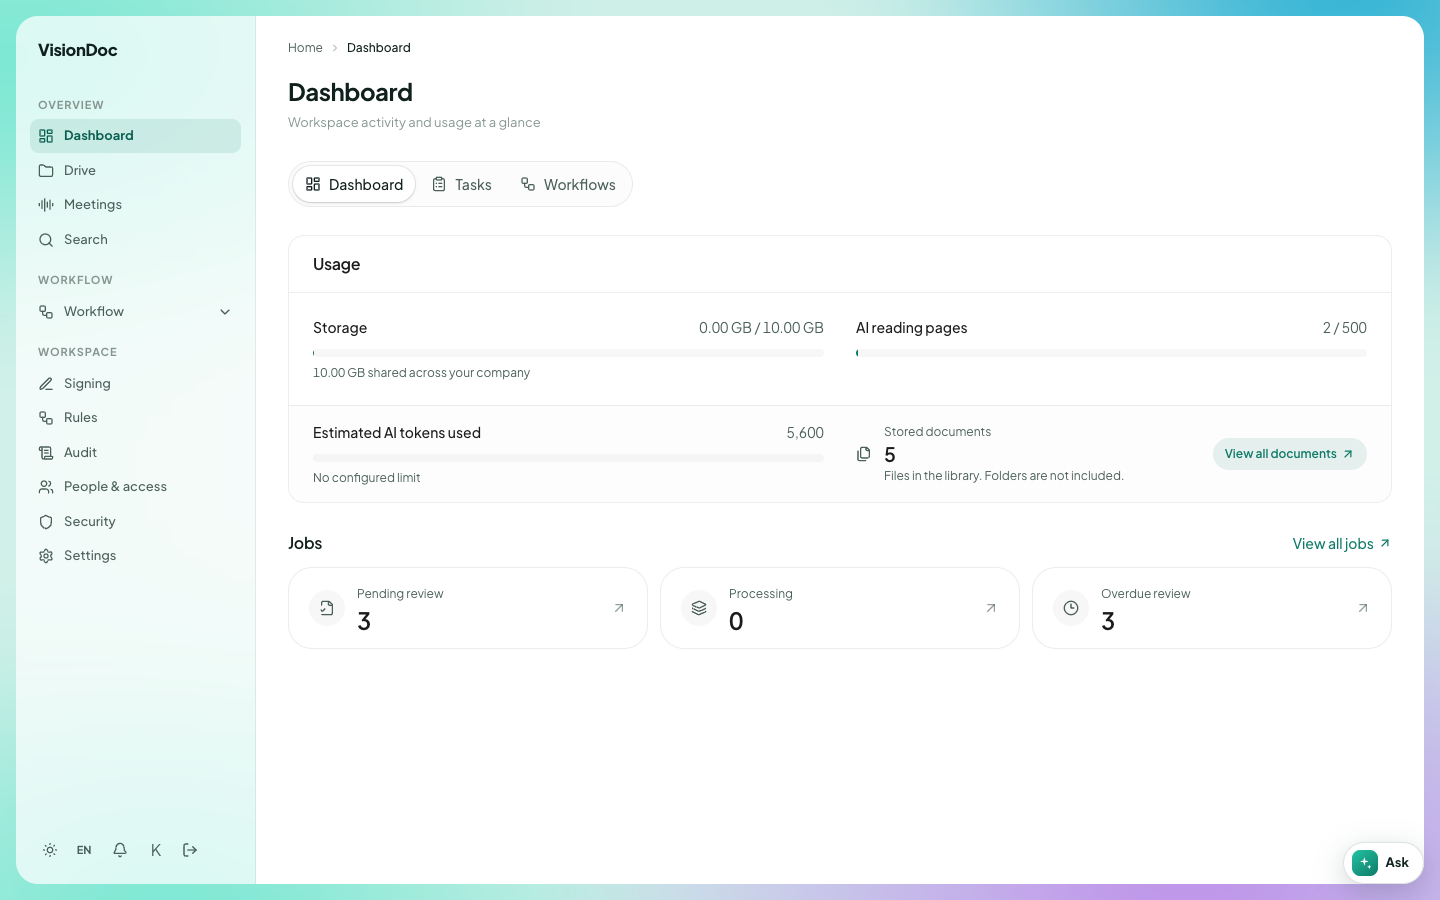
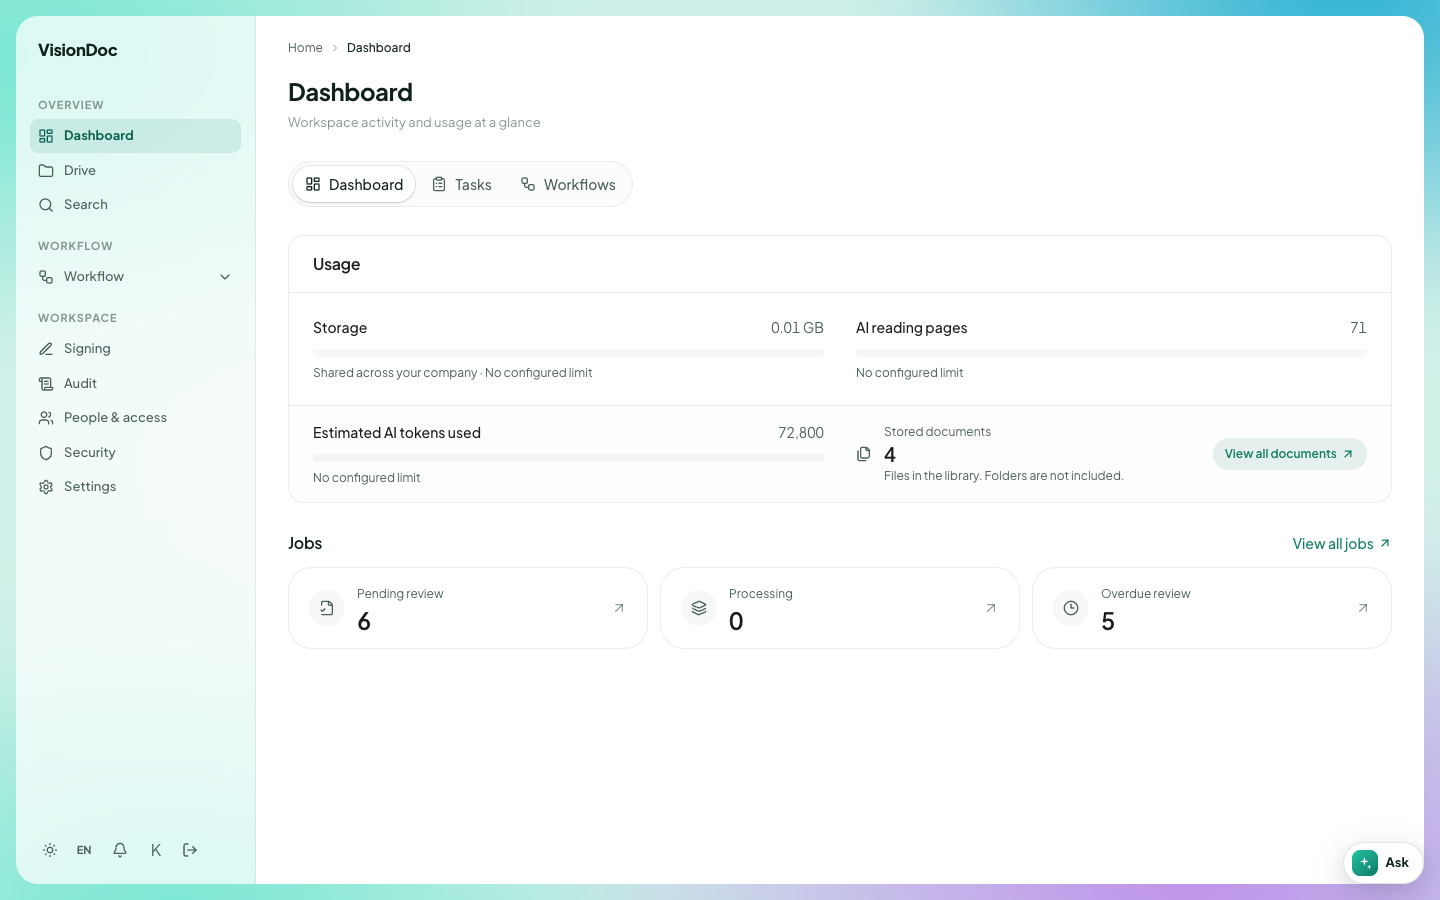
feat: match the how-to to the company bundle
Quiet the book page and describe the production bundle: Dashboard, Drive, Search, Workflow, and Workspace. Meetings is not part of that bundle.

diff --git a/docs/styles/website.css b/docs/styles/website.css
@@ -9,8 +9,8 @@
 }
 
 .book-summary {
-  background: linear-gradient(180deg, #e7f6f1 0%, #f7fbf9 48%, #ffffff 100%);
-  border-right: 0;
+  background: #ffffff;
+  border-right: 1px solid #e6ece9;
 }
 
 .book-summary ul.summary {
@@ -20,7 +20,7 @@
 .book-summary ul.summary li a,
 .book-summary ul.summary li span {
   color: #10201c;
-  border-radius: 12px;
+  border-radius: 10px;
   padding: 8px 12px;
   font-weight: 600;
 }
@@ -33,7 +33,7 @@
 .book-summary ul.summary li.active > a,
 .book-summary ul.summary li a:hover {
   color: #0b5f50;
-  background: rgba(14, 122, 103, 0.12);
+  background: #f3f6f5;
   text-decoration: none;
 }
 
@@ -44,16 +44,13 @@
 
 .book-summary .book-header,
 .book-body .book-header {
-  background: transparent;
-  border-bottom: 0;
+  background: #ffffff;
+  border-bottom: 1px solid #e6ece9;
 }
 
 .book-body,
 .book-body .body-inner {
-  background:
-    radial-gradient(900px 420px at 12% -10%, rgba(34, 195, 163, 0.35), transparent 60%),
-    radial-gradient(700px 480px at 100% 0%, rgba(186, 164, 255, 0.45), transparent 55%),
-    linear-gradient(165deg, #d8f3ec 0%, #eef7ff 46%, #f6e9fb 100%);
+  background: #f7f8f7;
 }
 
 .book-body .page-wrapper {
@@ -67,9 +64,10 @@
 
 .markdown-section {
   background: #ffffff;
-  border-radius: 22px;
+  border: 1px solid #e6ece9;
+  border-radius: 16px;
   padding: 28px 32px 36px;
-  box-shadow: 0 24px 60px rgba(16, 32, 28, 0.1);
+  box-shadow: 0 1px 2px rgba(16, 32, 28, 0.04);
   overflow: hidden;
 }
 
@@ -92,10 +90,10 @@
 
 .markdown-section .kicker {
   margin: 0 0 8px;
-  color: #0b5f50;
+  color: #4a5f59;
   font-size: 12px;
-  font-weight: 700;
-  letter-spacing: 0.14em;
+  font-weight: 600;
+  letter-spacing: 0.08em;
   text-transform: uppercase;
 }
 
@@ -113,9 +111,9 @@
   display: block;
   width: 100%;
   height: auto;
-  border: 0;
-  border-radius: 22px;
-  box-shadow: 0 18px 48px rgba(16, 32, 28, 0.16);
+  border: 1px solid #e6ece9;
+  border-radius: 14px;
+  box-shadow: none;
 }
 
 .markdown-section .shot figcaption {
@@ -128,21 +126,21 @@
 .markdown-section table {
   display: block;
   overflow: auto;
-  border: 1px solid #e4eeea;
+  border: 1px solid #e6ece9;
   border-radius: 14px;
 }
 
 .markdown-section table tr:nth-child(2n) {
-  background: #f6fbf9;
+  background: #f7f8f7;
 }
 
 .markdown-section table th {
-  color: #0b5f50;
+  color: #10201c;
 }
 
 .markdown-section code {
-  background: rgba(14, 122, 103, 0.1);
-  color: #0b5f50;
+  background: #f3f6f5;
+  color: #10201c;
   border-radius: 8px;
   padding: 2px 6px;
 }

diff --git a/docs/workflow.md b/docs/workflow.md
@@ -1,0 +1,18 @@
+<p class="kicker">Work</p>
+
+# Workflow
+
+Open **Workflow** in the sidebar. It holds the work a document moves through.
+
+| Item | What it is for |
+|---|---|
+| Start workflow | Begin a workflow on a document |
+| Inbox & outbox | Work waiting for you, and work you have sent on |
+| Application folder | Each application, and whether it is approved, pending, rejected, or returned |
+| Purchase Requisition | A non-trade request, from the draft through approval and delivery |
+
+**Start workflow** is where a new run begins. **Inbox & outbox** is the list of runs already moving.
+
+**Application folder** is the place to see an application and the step it is on.
+
+**Purchase Requisition** opens the non-trade list. **New requisition** starts one. The filters are **Attention required**, **Waiting for Dept Head**, **BOCD**, **Accounting**, **Legal**, **Delivery documents**, and **Closed**. An empty list says **You're all caught up**.

diff --git a/docs/drive.md b/docs/drive.md
@@ -5,9 +5,11 @@
 **Drive** is the library. The page you land in is **Home**.
 
 <figure class="shot">
-  <img src="assets/drive.png" alt="Drive home with folders and Upload files">
-  <figcaption>Drive on production. Folders on the right are that company’s own folders.</figcaption>
+  <img src="assets/drive.png" alt="Drive home with the company folders and Upload files">
+  <figcaption>Drive, open on Home. The folders shown belong to that company.</figcaption>
 </figure>
+
+A company starts with **Quotation**, **Sales Order**, and **Invoice** inside Home. You can rename Home and those three. You can add a folder inside Quotation, Sales Order, or Invoice. You cannot delete or move those four, and you cannot add a new folder beside them.
 
 ## Put files in
 

diff --git a/docs/README.md b/docs/README.md
@@ -17,8 +17,8 @@ The sidebar has three groups.
 
 | Group | Items |
 |---|---|
-| Overview | Dashboard, Drive, Meetings, Search |
-| Workflow | Workflow |
+| Overview | Dashboard, Drive, Search |
+| Workflow | Start workflow, Inbox & outbox, Application folder, Purchase Requisition |
 | Workspace | Signing, Rules, Audit, People & access, Security, Settings |
 
 The sun icon at the bottom switches light and dark. **EN** switches the language. The door icon signs you out. **Ask** sits at the bottom right of every page.

diff --git a/docs/workspace.md b/docs/workspace.md
@@ -13,6 +13,8 @@
 | Security | Your own account |
 | Settings | The company workspace |
 
+**Rules** is there when the company files incoming documents with rules.
+
 **Audit** reads **Every read, move, correction and download, with who did it**. Filter with **All events**, **Downloads**, **Corrections**, or **Access denied**. **Export CSV** downloads that list. **Filter** narrows it further.
 
 ## Along the bottom

diff --git a/docs/sign-in.md b/docs/sign-in.md
@@ -3,7 +3,7 @@
 # Sign in
 
 <figure class="shot">
-  <img src="assets/login.png" alt="Sign in card on a mint and lilac background">
+  <img src="assets/login.png" alt="VisionDoc sign-in page">
   <figcaption>Account, password, Log In, or a passkey.</figcaption>
 </figure>
 

diff --git a/docs/SUMMARY.md b/docs/SUMMARY.md
@@ -7,7 +7,7 @@
 * [Sign in](sign-in.md)
 * [Dashboard](dashboard.md)
 * [Drive](drive.md)
-* [Meetings](meetings.md)
+* [Workflow](workflow.md)
 * [Signing](signing.md)
 * [Workspace](workspace.md)
 
